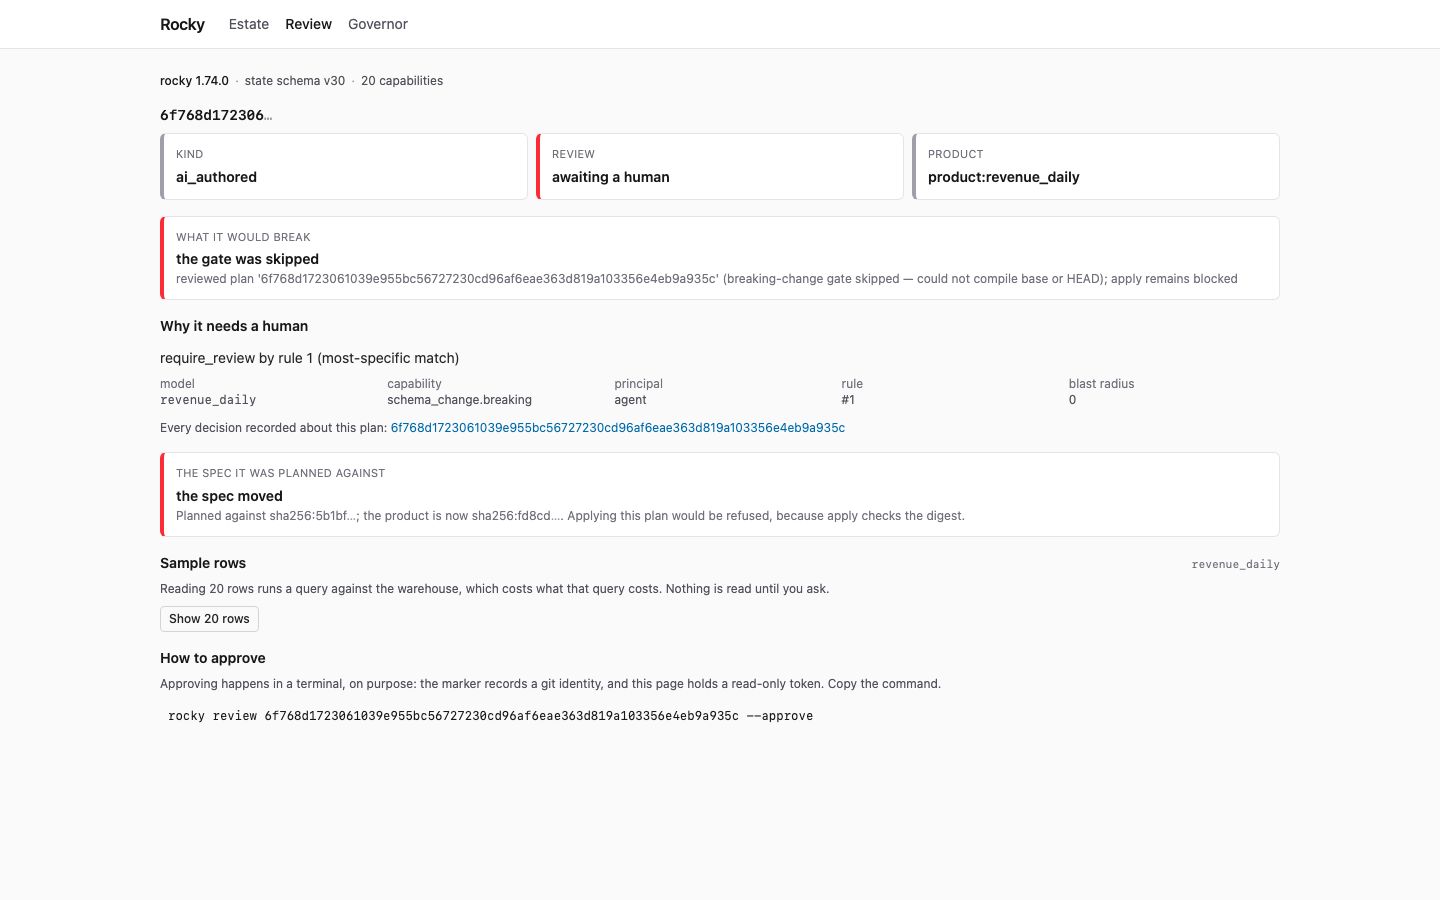
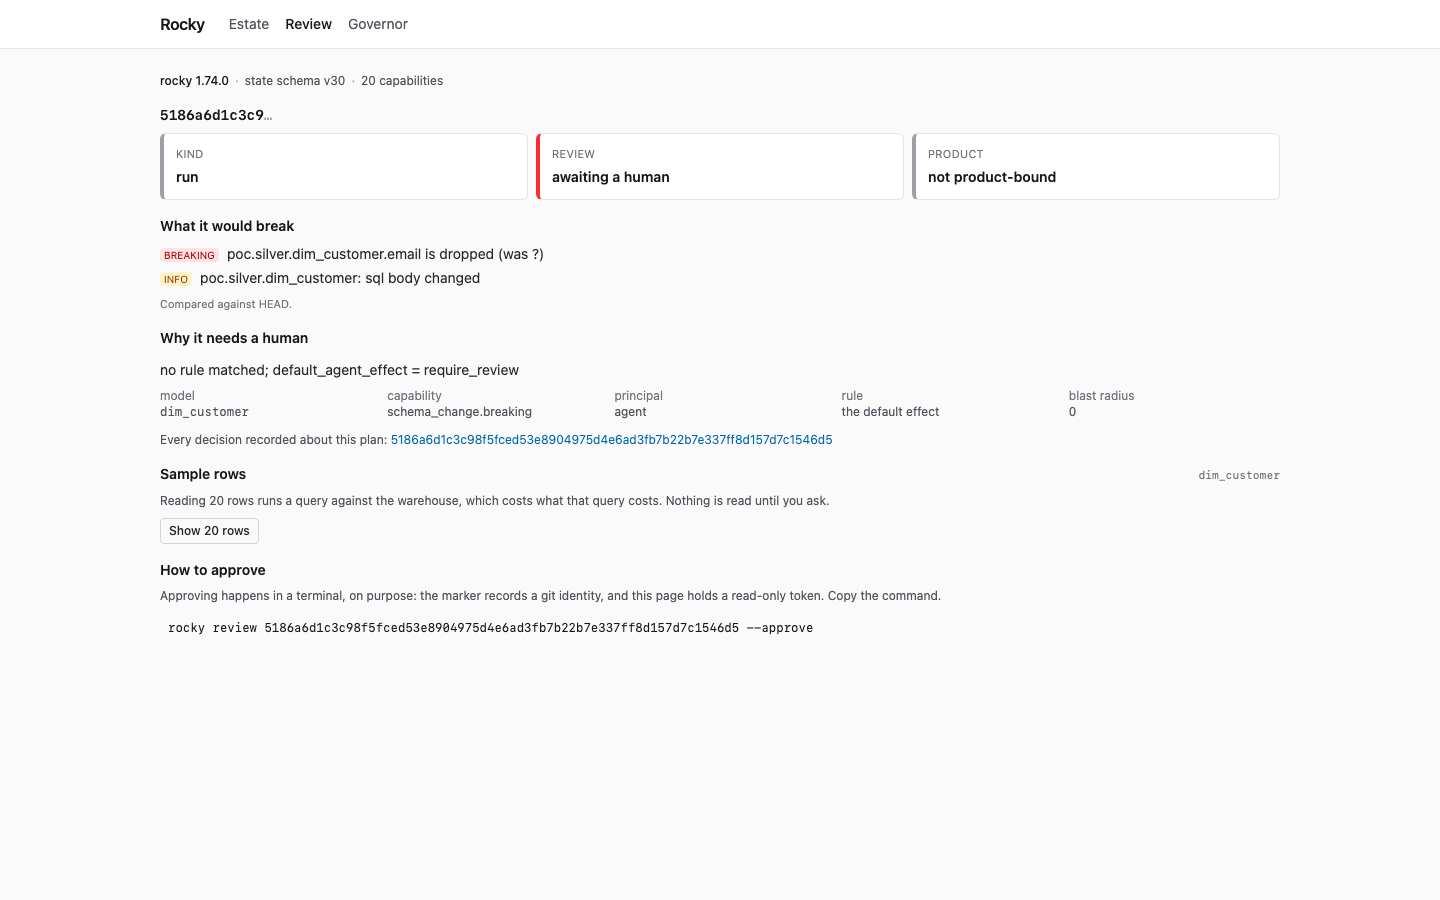
docs: red-team fixes: a real review-gated plan in the screenshots, accurate guide claims, a leak check that cannot pass vacuously

diff --git a/docs/src/content/docs/guides/browser-ui.md b/docs/src/content/docs/guides/browser-ui.md
@@ -5,9 +5,9 @@ sidebar:
   order: 5.8
 ---
 
-`rocky serve --ui` serves a browser UI for one project. It shows the project's models and runs, the plans waiting for a human, and the policy decisions and product history the engine recorded. The UI is read-only. Every value on the page comes from the same `/api/v1` payloads the CLI prints with `--output json`.
+`rocky serve --ui` serves a browser UI for one project. It shows the project's models and runs, the plans waiting for a human, and the policy decisions and product history the engine recorded. The UI is read-only. Every value on the page comes from a typed `/api/v1` payload. Most of those payloads are the same ones the CLI prints with `--output json`.
 
-![A tour of the Rocky browser UI: the estate with its DAG, the review queue, one plan awaiting a human, the governor brief, a model's custody chain, and a data product's journal](/demo-ui-tour.gif)
+![A tour of the Rocky browser UI: the estate with its DAG, the review queue, an agent's breaking change awaiting a human, the governor brief, a model's custody chain, and a data product's journal](/demo-ui-tour.gif)
 
 The UI ships inside the release binaries and the container image. It has three areas:
 
@@ -39,7 +39,7 @@ To run the UI somewhere other than your own machine, use the [container image](/
 
 ## Estate
 
-The estate is the first screen. It shows the project as the engine compiled it: the config file, the pipelines and adapters, the number of compiled models with their diagnostics, and the newest run.
+The estate is the first screen. It shows the project as the engine compiled it. The strip at the top names the config file, the pipelines and adapters, the compiled models with their diagnostics, and the newest run.
 
 ![The estate screen for the playground project: a project strip with one transformation pipeline, one DuckDB adapter and three compiled models, the newest run, and a DAG of raw_orders, customer_orders and revenue_summary](/ui-estate.png)
 
@@ -47,18 +47,18 @@ Below the project strip, the DAG draws every model and the edges between them. C
 
 ## Review
 
-The Review screen lists the plans that a policy rule sent to a human. The engine ranks the queue by a score of blast radius × classification × staleness, so a wide-reaching change to classified data that has waited longest comes first. It is the same list `rocky review --queue` prints.
+The Review screen lists the plans that a policy rule sent to a human. The engine ranks the queue by a score: blast radius × classification × staleness. A wide change to classified data that has waited long comes first. It is the same list `rocky review --queue` prints.
 
 Open a plan to see why it waits:
 
-![One plan in the Review screen: an AI-authored plan awaiting a human, the breaking-change result, the rule that required review, a warning that the product spec moved since the plan was made, a sample-rows button, and the rocky review --approve command to copy](/ui-review.png)
+![One plan in the Review screen: an agent's run plan awaiting a human, a breaking finding that the email column of dim_customer is dropped, the default policy effect that required review, a sample-rows button, and the rocky review --approve command to copy](/ui-review.png)
 
 The plan screen shows:
 
 - **What it would break.** The breaking-change findings against `HEAD`, or why that check could not run.
 - **Why it needs a human.** The rule, the capability, the principal and the blast radius behind the `require_review` decision.
-- **The spec it was planned against.** For a product plan, whether the product spec changed after the plan was made. `rocky apply` refuses a plan whose spec digest no longer matches.
-- **Sample rows.** Nothing is read until you ask. The button runs the model's query against the warehouse, for up to 20 rows, and that query costs what it costs. The engine masks classification-tagged columns before the rows leave it.
+- **The spec it was planned against.** For a product plan only: whether the product spec changed after the plan was made.
+- **Sample rows.** Nothing is read until you ask. The button runs the model's query against the warehouse for up to 20 rows, and that query has a cost. The engine masks classification-tagged columns before the rows leave it. A plan that names more than one model has no single model to sample, so the button does not appear.
 - **How to approve.** The command to copy.
 
 You approve in a terminal, not on the page. The approval marker records a git identity, and the page holds a read-only token:
@@ -73,7 +73,7 @@ The Governor area answers "what did the agents do, and was it allowed?" It has f
 
 ### Brief
 
-The brief is the estate digest that `rocky brief` prints, for a window you pick (7 days by default). It groups what needs you, the agents' policy decisions, runs, autonomy (degraded rules and active freezes) and cost.
+The brief is the estate digest that `rocky brief` prints, for a window you pick (7 days by default). It has a card for each part of the digest: what needs you, the agents' policy decisions, runs, autonomy (degraded rules and active freezes), cost, drift, freshness, quality and the scheduler.
 
 ![The Governor brief: one pending plan under Needs you, ten agent decisions with their capability, effect and rule, two successful runs, no degraded autonomy, and a cost card](/ui-governor-brief.png)
 
@@ -85,7 +85,7 @@ The scorecard shows acceptance, review and denial rates for a window you pick. G
 
 ### Custody
 
-Enter a subject (a model, a run id or a plan id) to trace its chain of custody. It shows the decisions about it, the plan, the runs that applied it, any verification after apply, and its blast radius. It matches `rocky audit --for <subject>`.
+Enter a subject to trace its chain of custody. A subject is a model, a run id, a plan id, or a ledger id such as `product:revenue_daily`. It shows the decisions about it, the plan, the runs that applied it, any verification after apply, and its blast radius. It matches `rocky audit --for <subject>`.
 
 ![The Custody tab for the model revenue_daily: ten policy decisions, the latest plan, two apply runs, no verification row, and a blast radius of zero downstream models](/ui-governor-custody.png)
 
@@ -103,9 +103,9 @@ The products tab shows each [data product](/reference/commands/products/): its f
 
 The page reads. It does not write.
 
-- **It cannot start a run.** The UI token must be read-only, and a read-only token gets `403 forbidden_read_only_token` on `POST /api/v1/jobs/run` and every other mutating request. To submit jobs over HTTP, run a second `rocky serve` without `--ui`, or use the CLI.
+- **It cannot start a run.** The UI token must be read-only. A read-only token gets `403 forbidden_read_only_token` on `POST /api/v1/jobs/run` and every other token-checked write. The one route that ignores the token is the webhook route, which checks its own HMAC signature. The page does not hold that secret. To submit jobs over HTTP, run a second `rocky serve` without `--ui`, or use the CLI.
 - **It cannot approve a plan.** Review shows the command. You run it in a terminal.
-- **It cannot change policy.** The Governor screens report decisions. `rocky policy` changes them.
+- **It cannot change policy.** The Governor screens report decisions. The rules live in the `[policy]` block of `rocky.toml`, and `rocky policy freeze` and `rocky policy unfreeze` are the CLI's only policy writes.
 
 ## How the server protects the page
 
@@ -114,7 +114,7 @@ With `--ui`, the server adds checks that a plain `rocky serve` does not run:
 - `--ui` refuses to start without a token, or with a token that is not read-only.
 - A request whose `Host` is not a loopback name, the bind host, or an `--allowed-host` entry gets `421 host_not_allowed`. This defends against DNS rebinding, where an attacker's domain is made to resolve to `127.0.0.1`. `GET /api/v1/health` skips this check, so a load balancer probe still works.
 - A request whose `Origin` is neither the server's own nor an `--allowed-origin` entry gets `403 origin_not_allowed`.
-- Every UI response carries a Content Security Policy. The page loads scripts, styles and fonts from this server only, and nothing may frame it.
+- Every UI file response carries a Content Security Policy. The page loads scripts, styles and fonts from this server only, and nothing may frame it.
 - `--ui --scheduler` refuses to start without `ROCKY_WEBHOOK_SECRET`, because a browser can reach the webhook route.
 
 Behind a reverse proxy, name the proxy host with `--allowed-host`:

diff --git a/README.md b/README.md
@@ -157,7 +157,7 @@ A sketch of that panel:
 
 ## In your browser
 
-`rocky serve --ui` opens a read-only view of the project in the browser. The UI is built into the release binary. It has three areas: the estate (models, the DAG and runs), the plans waiting for a human, and the governor's record of what agents did and why.
+`rocky serve --ui` serves a read-only view of the project to your browser. The UI is built into the release binary. It has three areas: the estate (models, the DAG and runs), the plans waiting for a human, and the governor's record of what agents did and why.
 
 ```bash
 rocky serve --ui --token "$(openssl rand -hex 16)" --token-scope read-only
@@ -165,7 +165,7 @@ rocky serve --ui --token "$(openssl rand -hex 16)" --token-scope read-only
 ```
 
 <p align="center">
-  <img src="docs/public/demo-ui-tour.gif" alt="A tour of the Rocky browser UI: the estate with its DAG, the review queue, one plan awaiting a human with the rocky review --approve command to copy, the governor brief, a model's custody chain, and a data product's journal" width="900" />
+  <img src="docs/public/demo-ui-tour.gif" alt="A tour of the Rocky browser UI: the estate with its DAG, the review queue, an agent's breaking change awaiting a human with the rocky review --approve command to copy, the governor brief, a model's custody chain, and a data product's journal" width="900" />
 </p>
 
 The page cannot run or approve anything. Its token is read-only, and you approve a plan in a terminal. See the [browser UI guide](https://rocky-data.dev/guides/browser-ui/).
